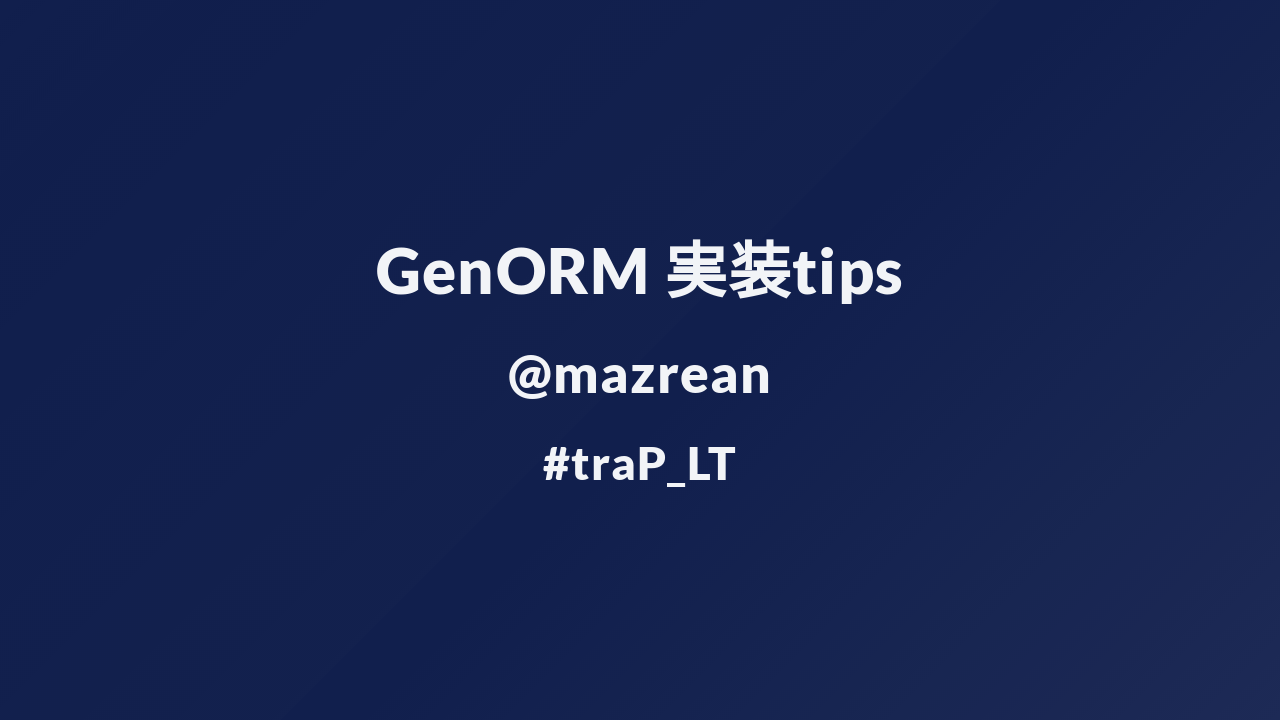
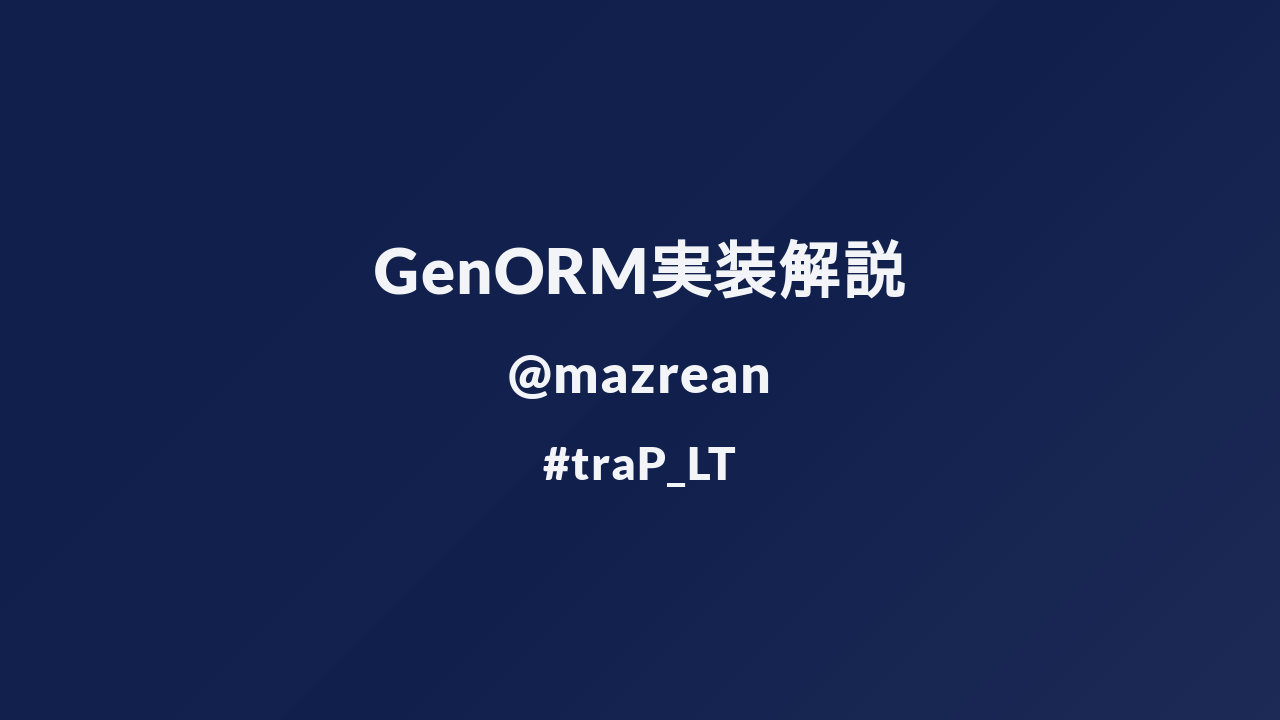
slide update

Changed region(s): [[0.2812, 0.3361, 0.7188, 0.4278]]

diff --git a/trap-lt/index.html b/trap-lt/index.html
@@ -1,4 +1,4 @@
[2 lines of base64/hex data omitted]
 /*!
  * Marp / Marpit Gaia theme.
  *
@@ -9,7 +9,7 @@
  * @size 16:9 1280px 720px
  * @size 4:3 960px 720px
  */div#p>svg>foreignObject>section .hljs{background:#000;color:#f8f8f8;display:block;overflow-x:auto;padding:.5em}div#p>svg>foreignObject>section .hljs-comment,div#p>svg>foreignObject>section .hljs-quote{color:#aeaeae;font-style:italic}div#p>svg>foreignObject>section .hljs-keyword,div#p>svg>foreignObject>section .hljs-selector-tag,div#p>svg>foreignObject>section .hljs-type{color:#e28964}div#p>svg>foreignObject>section .hljs-string{color:#65b042}div#p>svg>foreignObject>section .hljs-subst{color:#daefa3}div#p>svg>foreignObject>section .hljs-link,div#p>svg>foreignObject>section .hljs-regexp{color:#e9c062}div#p>svg>foreignObject>section .hljs-name,div#p>svg>foreignObject>section .hljs-section,div#p>svg>foreignObject>section .hljs-tag,div#p>svg>foreignObject>section .hljs-title{color:#89bdff}div#p>svg>foreignObject>section .hljs-class .hljs-title,div#p>svg>foreignObject>section .hljs-doctag{text-decoration:underline}div#p>svg>foreignObject>section .hljs-bullet,div#p>svg>foreignObject>section .hljs-number,div#p>svg>foreignObject>section .hljs-symbol{color:#3387cc}div#p>svg>foreignObject>section .hljs-params,div#p>svg>foreignObject>section .hljs-template-variable,div#p>svg>foreignObject>section .hljs-variable{color:#3e87e3}div#p>svg>foreignObject>section .hljs-attribute{color:#cda869}div#p>svg>foreignObject>section .hljs-meta{color:#8996a8}div#p>svg>foreignObject>section .hljs-formula{background-color:#0e2231;color:#f8f8f8;font-style:italic}div#p>svg>foreignObject>section .hljs-addition{background-color:#253b22;color:#f8f8f8}div#p>svg>foreignObject>section .hljs-deletion{background-color:#420e09;color:#f8f8f8}div#p>svg>foreignObject>section .hljs-selector-class{color:#9b703f}div#p>svg>foreignObject>section .hljs-selector-id{color:#8b98ab}div#p>svg>foreignObject>section .hljs-emphasis{font-style:italic}div#p>svg>foreignObject>section .hljs-strong{font-weight:700}div#p>svg>foreignObject>section svg[data-marp-fitting=svg]{max-height:580px}div#p>svg>foreignObject>section h1,div#p>svg>foreignObject>section h2,div#p>svg>foreignObject>section h3,div#p>svg>foreignObject>section h4,div#p>svg>foreignObject>section h5,div#p>svg>foreignObject>section h6{margin:.5em 0 0}div#p>svg>foreignObject>section h1 strong,div#p>svg>foreignObject>section h2 strong,div#p>svg>foreignObject>section h3 strong,div#p>svg>foreignObject>section h4 strong,div#p>svg>foreignObject>section h5 strong,div#p>svg>foreignObject>section h6 strong{font-weight:inherit}div#p>svg>foreignObject>section h1{font-size:1.8em}div#p>svg>foreignObject>section h2{font-size:1.5em}div#p>svg>foreignObject>section h3{font-size:1.3em}div#p>svg>foreignObject>section h4{font-size:1.1em}div#p>svg>foreignObject>section h5{font-size:1em}div#p>svg>foreignObject>section h6{font-size:.9em}div#p>svg>foreignObject>section blockquote,div#p>svg>foreignObject>section p{margin:1em 0 0}div#p>svg>foreignObject>section ol>li,div#p>svg>foreignObject>section ul>li{margin:.3em 0 0}div#p>svg>foreignObject>section ol>li>p,div#p>svg>foreignObject>section ul>li>p{margin:.6em 0 0}div#p>svg>foreignObject>section code{display:inline-block;font-family:Roboto Mono,monospace;font-size:.8em;letter-spacing:0;margin:-.1em .15em;padding:.1em .2em;vertical-align:baseline}div#p>svg>foreignObject>section pre{display:block;margin:1em 0 0;min-height:1em;overflow:visible}div#p>svg>foreignObject>section pre code{box-sizing:border-box;font-size:.7em;margin:0;min-width:100%;padding:.5em}div#p>svg>foreignObject>section pre code svg[data-marp-fitting=svg]{max-height:calc(580px - 1em)}div#p>svg>foreignObject>section blockquote{margin:1em 0 0;padding:0 1em;position:relative}div#p>svg>foreignObject>section blockquote:after,div#p>svg>foreignObject>section blockquote:before{content:"“";display:block;font-family:Times New Roman,serif;font-weight:700;position:absolute}div#p>svg>foreignObject>section blockquote:before{left:0;top:0}div#p>svg>foreignObject>section blockquote:after{bottom:0;right:0;transform:rotate(180deg)}div#p>svg>foreignObject>section blockquote>:first-child{margin-top:0}div#p>svg>foreignObject>section mark{background:transparent}div#p>svg>foreignObject>section table{border-collapse:collapse;border-spacing:0;margin:1em 0 0}div#p>svg>foreignObject>section table td,div#p>svg>foreignObject>section table th{border-style:solid;border-width:1px;padding:.2em .4em}div#p>svg>foreignObject>section footer,div#p>svg>foreignObject>section header,div#p>svg>foreignObject>section:after{box-sizing:border-box;font-size:66%;height:70px;line-height:50px;overflow:hidden;padding:10px 25px;position:absolute}div#p>svg>foreignObject>section:after{--marpit-root-font-size:66%}div#p>svg>foreignObject>section header{top:0}div#p>svg>foreignObject>section footer,div#p>svg>foreignObject>section header{left:0;right:0}div#p>svg>foreignObject>section footer{bottom:0}div#p>svg>foreignObject>section{word-wrap:break-word;--color-background:#fff8e1;--color-background-stripe:rgba(69,90,100,.1);--color-foreground:#455a64;--color-dimmed:#6a7a7d;--color-highlight:#0288d1;background-color:var(--color-background);background-image:linear-gradient(135deg,hsla(0,0%,53%,0),hsla(0,0%,53%,.02) 50%,hsla(0,0%,100%,0) 0,hsla(0,0%,100%,.05));color:var(--color-foreground);font-family:Lato,Avenir Next,Avenir,Trebuchet MS,Segoe UI,sans-serif;font-size:35px;height:720px;letter-spacing:1.25px;line-height:1.35;padding:70px;width:1280px}div#p>svg>foreignObject>section{--marpit-root-font-size:35px}div#p>svg>foreignObject>section:after{bottom:0;font-size:80%;right:0}div#p>svg>foreignObject>section:after{--marpit-root-font-size:80%}div#p>svg>foreignObject>section a,div#p>svg>foreignObject>section mark{color:var(--color-highlight)}div#p>svg>foreignObject>section code{background:var(--color-dimmed);color:var(--color-background)}div#p>svg>foreignObject>section h1 strong,div#p>svg>foreignObject>section h2 strong,div#p>svg>foreignObject>section h3 strong,div#p>svg>foreignObject>section h4 strong,div#p>svg>foreignObject>section h5 strong,div#p>svg>foreignObject>section h6 strong{color:var(--color-highlight)}div#p>svg>foreignObject>section pre>code{background:var(--color-foreground)}div#p>svg>foreignObject>section blockquote:after,div#p>svg>foreignObject>section blockquote:before,div#p>svg>foreignObject>section footer,div#p>svg>foreignObject>section header,div#p>svg>foreignObject>section section:after{color:var(--color-dimmed)}div#p>svg>foreignObject>section table td,div#p>svg>foreignObject>section table th{border-color:var(--color-foreground)}div#p>svg>foreignObject>section table thead th{background:var(--color-foreground);color:var(--color-background)}div#p>svg>foreignObject>section table tbody>tr:nth-child(odd) td,div#p>svg>foreignObject>section table tbody>tr:nth-child(odd) th{background:var(--color-background-stripe,transparent)}div#p>svg>foreignObject>section>:first-child,div#p>svg>foreignObject>section>header:first-child+*{margin-top:0}div#p>svg>foreignObject>section.invert{--color-background:#455a64;--color-background-stripe:rgba(255,248,225,.1);--color-foreground:#fff8e1;--color-dimmed:#dad8c8;--color-highlight:#81d4fa}div#p>svg>foreignObject>section.gaia{--color-background:#0288d1;--color-background-stripe:rgba(255,248,225,.1);--color-foreground:#fff8e1;--color-dimmed:#cce2de;--color-highlight:#81d4fa}div#p>svg>foreignObject>section.lead{display:flex;flex-flow:column nowrap;justify-content:center}div#p>svg>foreignObject>section.lead h1,div#p>svg>foreignObject>section.lead h2,div#p>svg>foreignObject>section.lead h3,div#p>svg>foreignObject>section.lead h4,div#p>svg>foreignObject>section.lead h5,div#p>svg>foreignObject>section.lead h6{text-align:center}div#p>svg>foreignObject>section.lead h1 svg[data-marp-fitting=svg],div#p>svg>foreignObject>section.lead h2 svg[data-marp-fitting=svg],div#p>svg>foreignObject>section.lead h3 svg[data-marp-fitting=svg],div#p>svg>foreignObject>section.lead h4 svg[data-marp-fitting=svg],div#p>svg>foreignObject>section.lead h5 svg[data-marp-fitting=svg],div#p>svg>foreignObject>section.lead h6 svg[data-marp-fitting=svg]{--preserve-aspect-ratio:xMidYMid meet}div#p>svg>foreignObject>section.lead p{text-align:center}div#p>svg>foreignObject>section.lead blockquote>h1,div#p>svg>foreignObject>section.lead blockquote>h2,div#p>svg>foreignObject>section.lead blockquote>h3,div#p>svg>foreignObject>section.lead blockquote>h4,div#p>svg>foreignObject>section.lead blockquote>h5,div#p>svg>foreignObject>section.lead blockquote>h6,div#p>svg>foreignObject>section.lead blockquote>p{text-align:left}div#p>svg>foreignObject>section.lead blockquote svg[data-marp-fitting=svg]:not([data-marp-fitting-math]){--preserve-aspect-ratio:xMinYMin meet}div#p>svg>foreignObject>section.lead ol>li>p,div#p>svg>foreignObject>section.lead ul>li>p{text-align:left}div#p>svg>foreignObject>section.lead table{margin-left:auto;margin-right:auto}div#p>svg>foreignObject>section:not(a){--color-background:#f2f4f7;--color-foreground:#111f4d;--color-highlight:rgba(17,31,77,0.5);--color-dimmed:#757575}div#p>svg>foreignObject>section:not(a).invert{--color-background:#111f4d;--color-foreground:#f2f4f7;--color-highlight:rgba(17,31,77,0.5);--color-dimmed:#757575}div#p>svg>foreignObject>section .gist{height:400px!important}div#p>svg>foreignObject>section .gist-file .gist-data{max-height:400px;overflow-y:visible}div#p>svg>foreignObject>section[data-marpit-advanced-background=background]{columns:initial!important;display:block!important;padding:0!important}div#p>svg>foreignObject>section[data-marpit-advanced-background=background]:after,div#p>svg>foreignObject>section[data-marpit-advanced-background=background]:before,div#p>svg>foreignObject>section[data-marpit-advanced-background=content]:after,div#p>svg>foreignObject>section[data-marpit-advanced-background=content]:before{display:none!important}div#p>svg>foreignObject>section[data-marpit-advanced-background=background]>div[data-marpit-advanced-background-container]{all:initial;display:flex;flex-direction:row;height:100%;overflow:hidden;width:100%}div#p>svg>foreignObject>section[data-marpit-advanced-background=background]>div[data-marpit-advanced-background-container][data-marpit-advanced-background-direction=vertical]{flex-direction:column}div#p>svg>foreignObject>section[data-marpit-advanced-background=background][data-marpit-advanced-background-split]>div[data-marpit-advanced-background-container]{width:var(--marpit-advanced-background-split,50%)}div#p>svg>foreignObject>section[data-marpit-advanced-background=background][data-marpit-advanced-background-split=right]>div[data-marpit-advanced-background-container]{margin-left:calc(100% - var(--marpit-advanced-background-split, 50%))}div#p>svg>foreignObject>section[data-marpit-advanced-background=background]>div[data-marpit-advanced-background-container]>figure{all:initial;background-position:center;background-repeat:no-repeat;background-size:cover;flex:auto;margin:0}div#p>svg>foreignObject>section[data-marpit-advanced-background=content],div#p>svg>foreignObject>section[data-marpit-advanced-background=pseudo]{background:transparent!important}div#p>svg>foreignObject>section[data-marpit-advanced-background=pseudo],div#p>svg[data-marpit-svg]>foreignObject[data-marpit-advanced-background=pseudo]{pointer-events:none!important}div#p>svg>foreignObject>section[data-marpit-advanced-background-split]{width:100%;height:100%}</style></head><body><div class="bespoke-marp-osc"><button data-bespoke-marp-osc="prev" tabindex="-1" title="Previous slide">Previous slide</button><span data-bespoke-marp-osc="page"></span><button data-bespoke-marp-osc="next" tabindex="-1" title="Next slide">Next slide</button><button data-bespoke-marp-osc="fullscreen" tabindex="-1" title="Toggle fullscreen (f)">Toggle fullscreen</button><button data-bespoke-marp-osc="presenter" tabindex="-1" title="Open presenter view (p)">Open presenter view</button></div><div id="p"><svg data-marpit-svg="" viewBox="0 0 1280 720"><foreignObject width="1280" height="720"><section id="1" data-class="lead invert" data-theme="gaia" class="lead invert" style="--class:lead invert;--theme:gaia;">
-<h1>GenORM 実装tips</h1>
+<h1>GenORM実装解説</h1>
 <h2>@mazrean</h2>
 <h3>#traP_LT</h3>
 </section>
